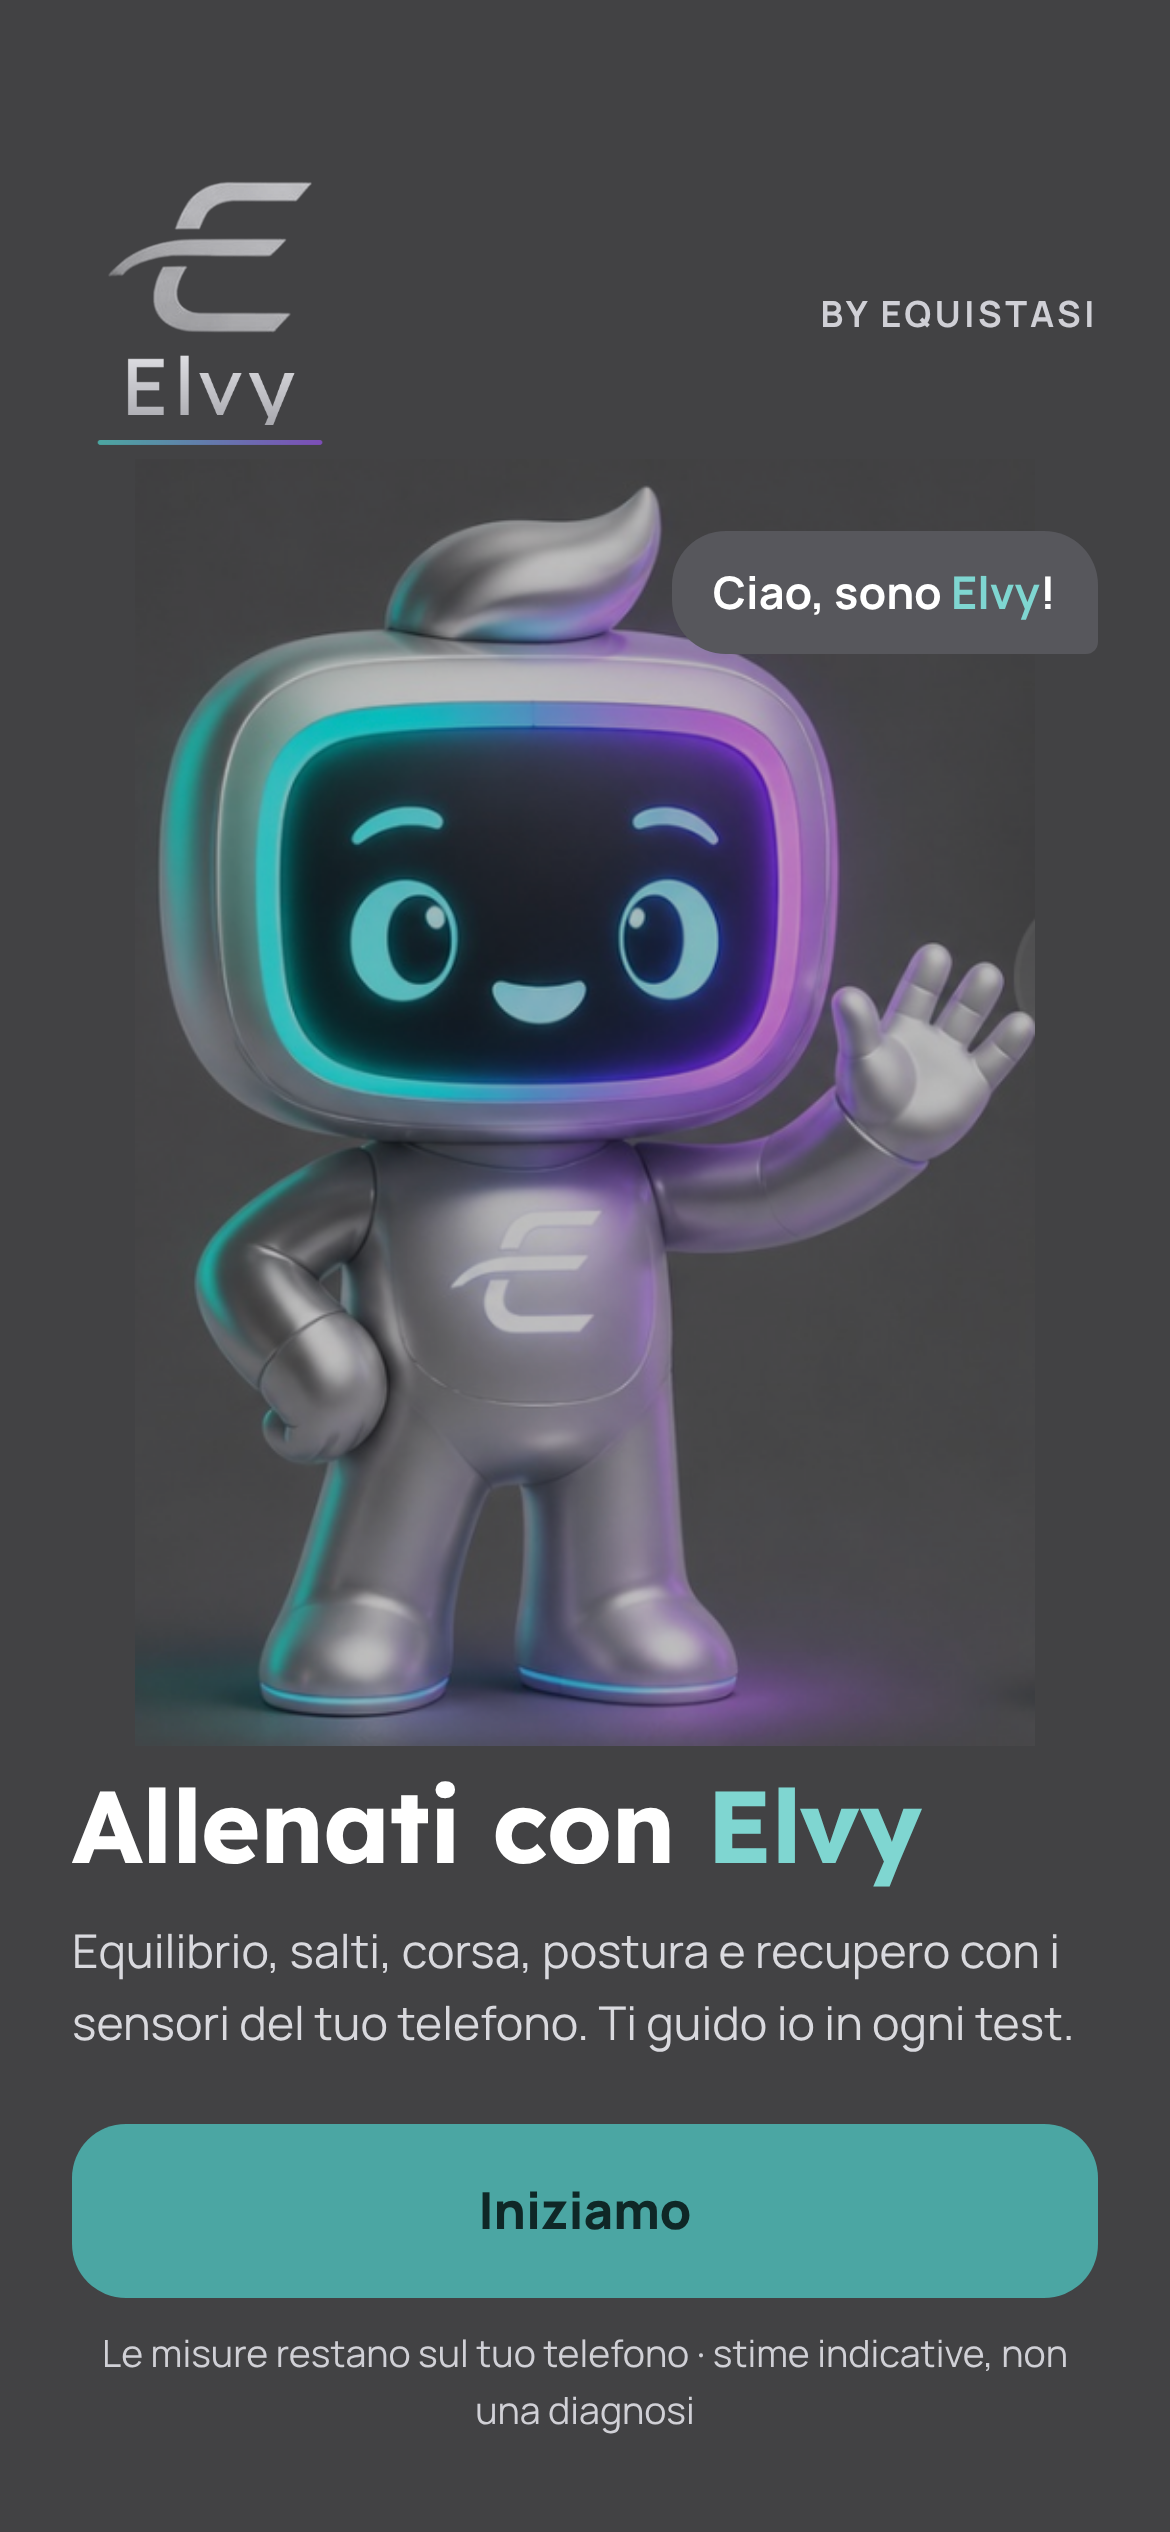
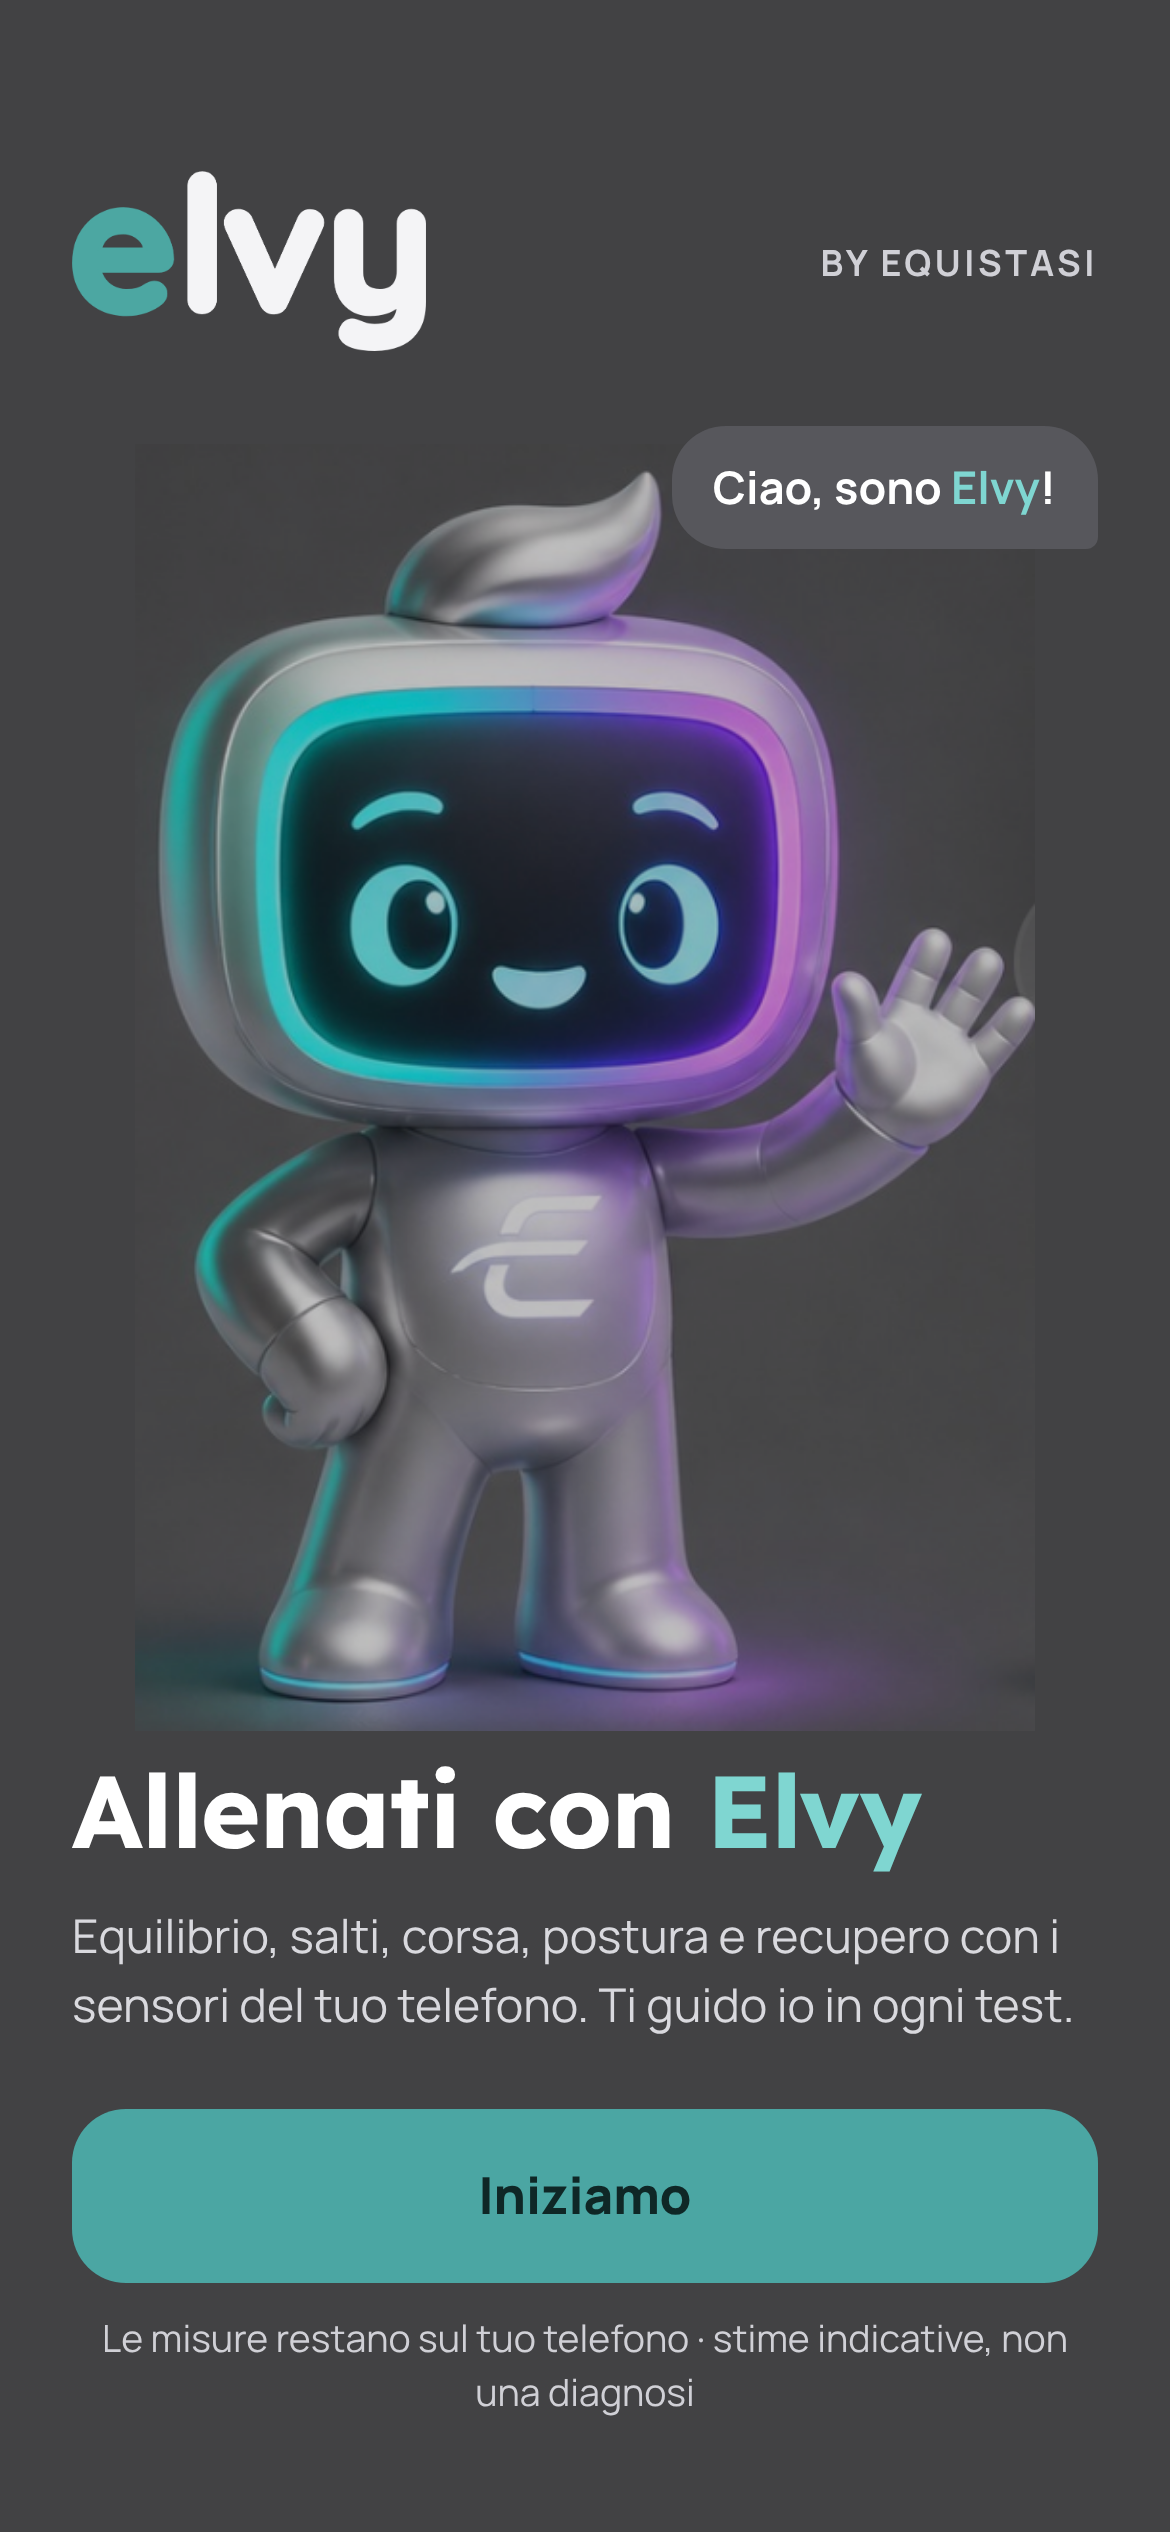
Elvy: modern lowercase wordmark (teal e) in app screen and presentation
Claude-Session: https://claude.ai/code/session_01QAocTE2r1HCBYJM3SbD15E

diff --git a/tools/elvy/presentazione.html b/tools/elvy/presentazione.html
@@ -44,7 +44,7 @@ ul.l li.pp::before { background: #7D4EB7; }
 <!-- 1 Copertina -->
 <section class="s" style="padding:0;flex-direction:row;background:radial-gradient(circle at 75% 45%,#57575C 0,#424244 55%,#38383A 100%)">
   <div style="width:640px;padding:72px 0 0 72px;display:flex;flex-direction:column">
-    <img src="assets/logo_elvy.png" style="width:120px">
+    <img src="assets/elvy_wordmark.png" style="width:190px">
     <div class="k" style="margin-top:56px">Equistasi presenta</div>
     <h1 style="font-size:76px;line-height:1.02">Allenati<br>con <span class="t">Elvy</span></h1>
     <p class="lead" style="font-size:21px">Il dispositivo NFC, l’app per smartphone e smartwatch e la cintura per misurare equilibrio, salti, corsa, postura e recupero.</p>
